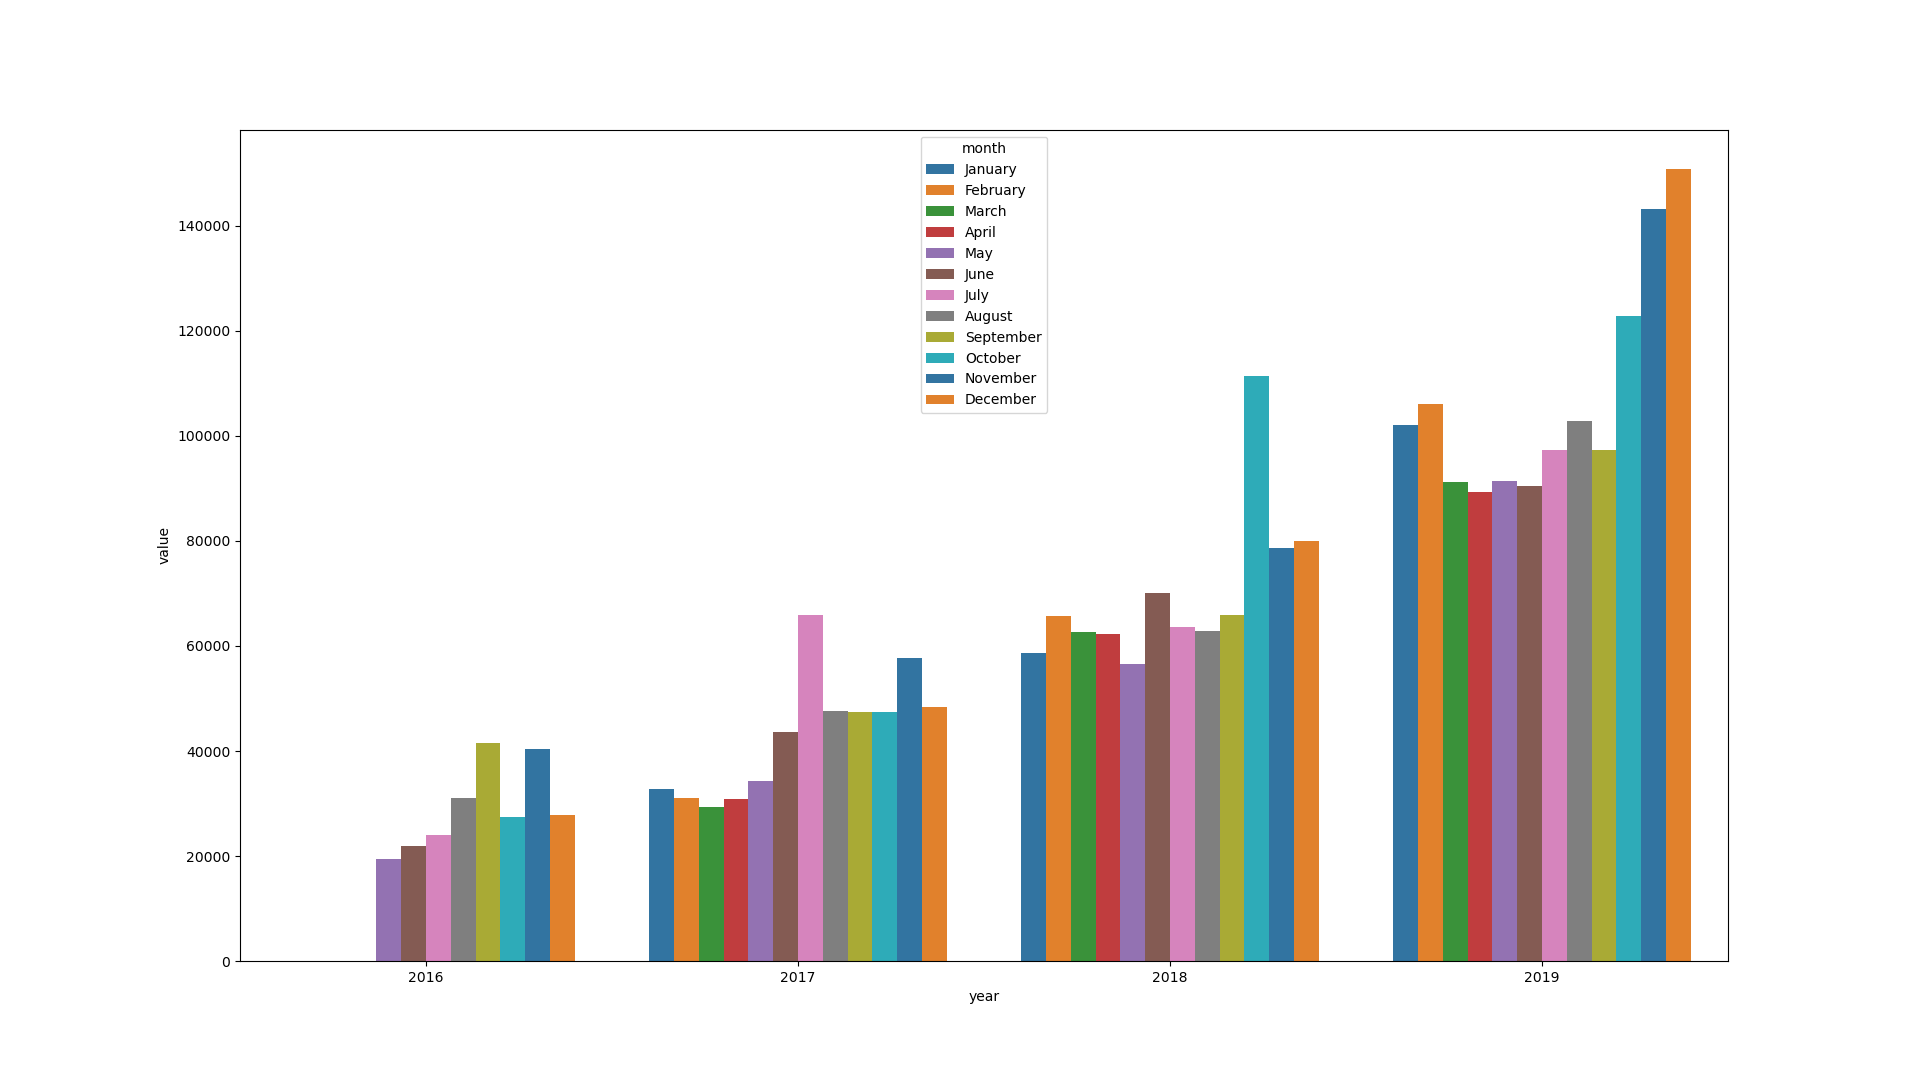
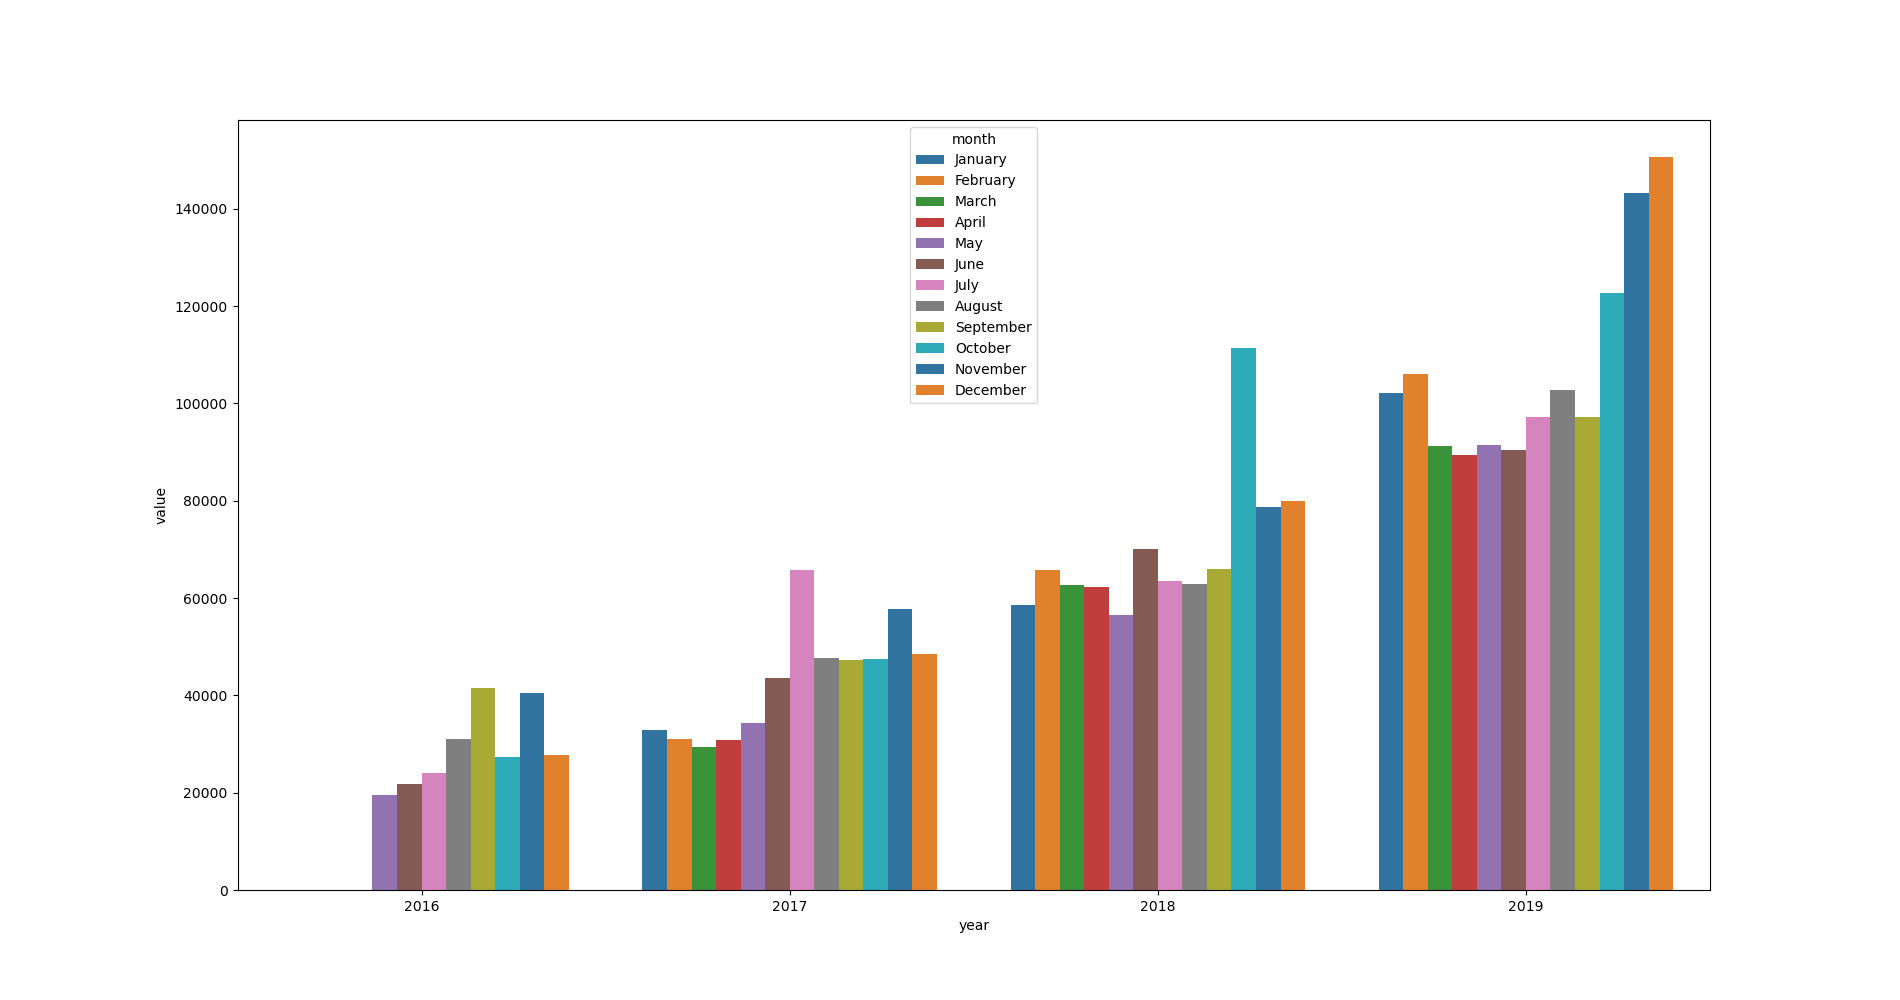
add 7

diff --git a/week_ (7)/boilerplate-page-view-time-series-visualizer-main/time_series_visualizer.py b/week_ (7)/boilerplate-page-view-time-series-visualizer-main/time_series_visualizer.py
@@ -18,6 +18,9 @@ def draw_line_plot():
     # Draw line plot
     fig, ax = plt.subplots(figsize= (10,5))
     sns.lineplot(data=df, c = 'r')
+    ax.set_title("Daily freeCodeCamp Forum Page Views 5/2016-12/2019")
+    ax.set_xlabel("Date")
+    ax.set_ylabel("Page Views")
 
 
     # Save image and return fig (don't change this part)
@@ -37,7 +40,9 @@ def draw_bar_plot():
 
 
     # Draw bar plot
-    fig, ax = plt.subplots(figsize=(19.2, 10.8), dpi=100)
+    fig, ax = plt.subplots(figsize=(19, 10))
+    ax.set_xlabel("Years")
+    ax.set_ylabel("Average Page Views")
     sns.barplot(df_bar, x= 'year', hue='month', y='value', palette='tab10')
 
 
@@ -62,8 +67,13 @@ def draw_box_plot():
     fig, axes = plt.subplots(1, 2, figsize=(32, 10))
     
     sns.boxplot(df_box, x='month', y='value', ax = axes[1])
+    axes[1].set_xlabel("Month")
+    axes[1].set_ylabel("Page Views")
 
     sns.boxplot(df_box, x='year', y='value', ax = axes[0])
+    axes[0].set_xlabel("Year")
+    axes[0].set_ylabel("Page Views")
+    
 
 
 
